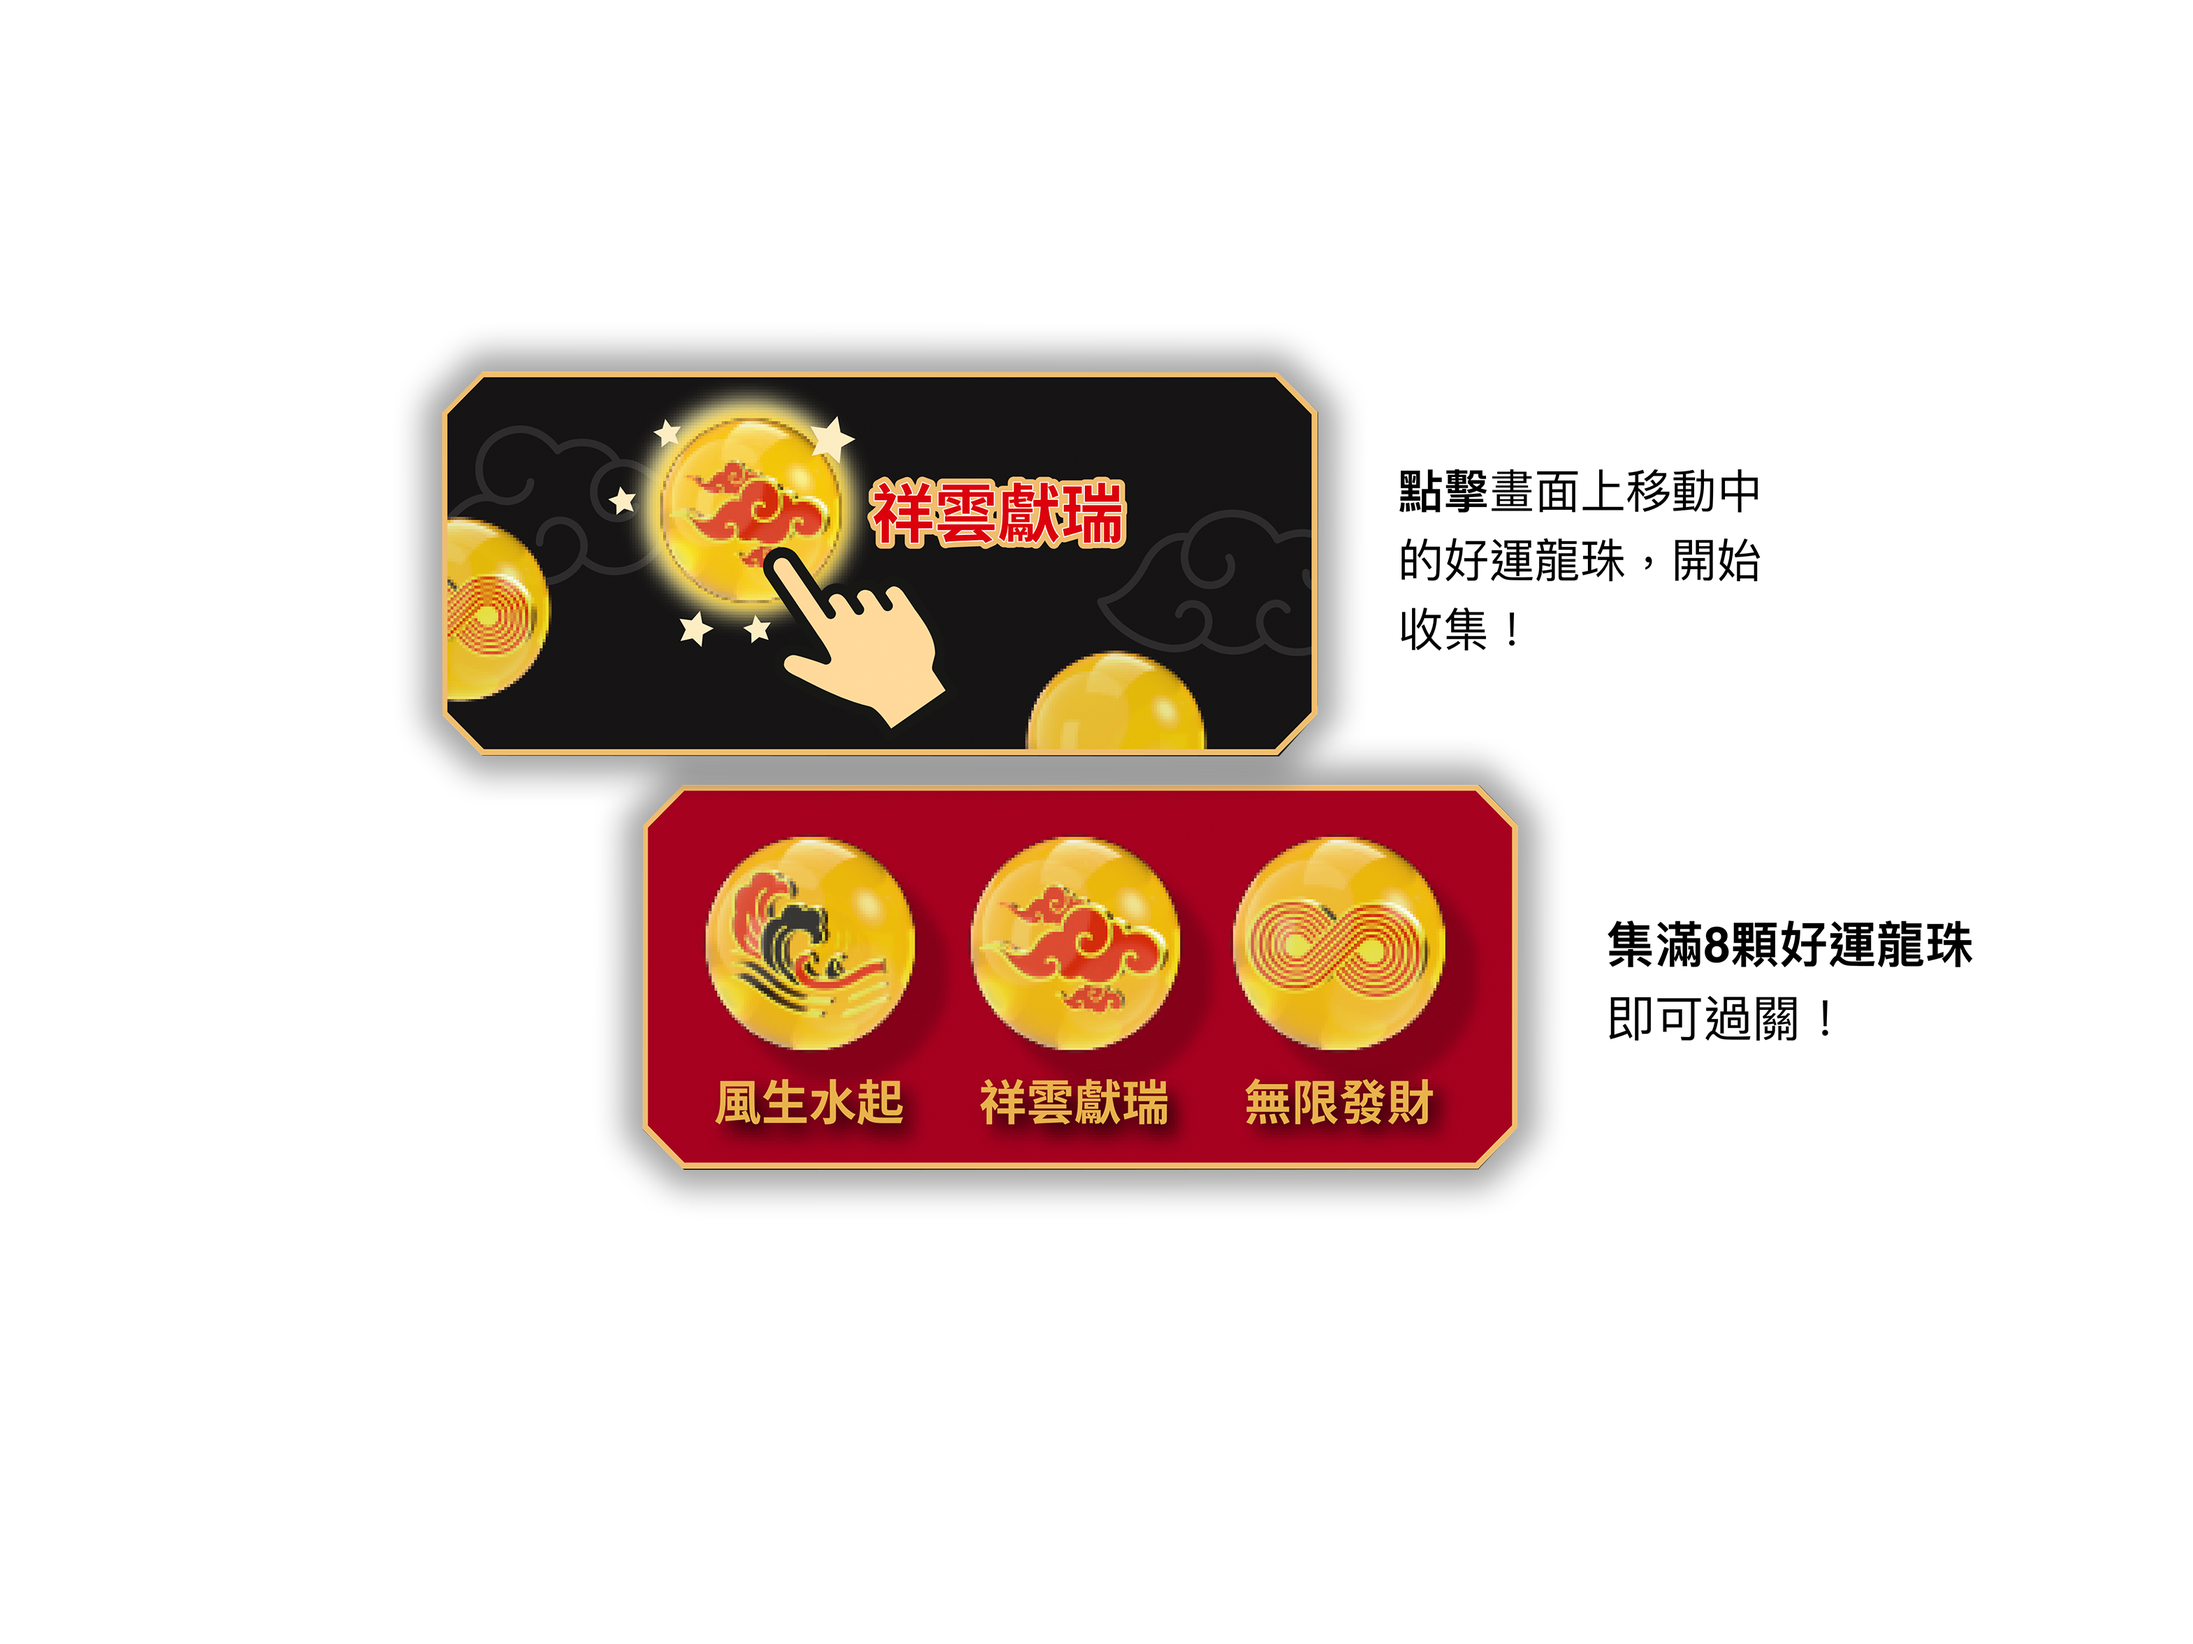
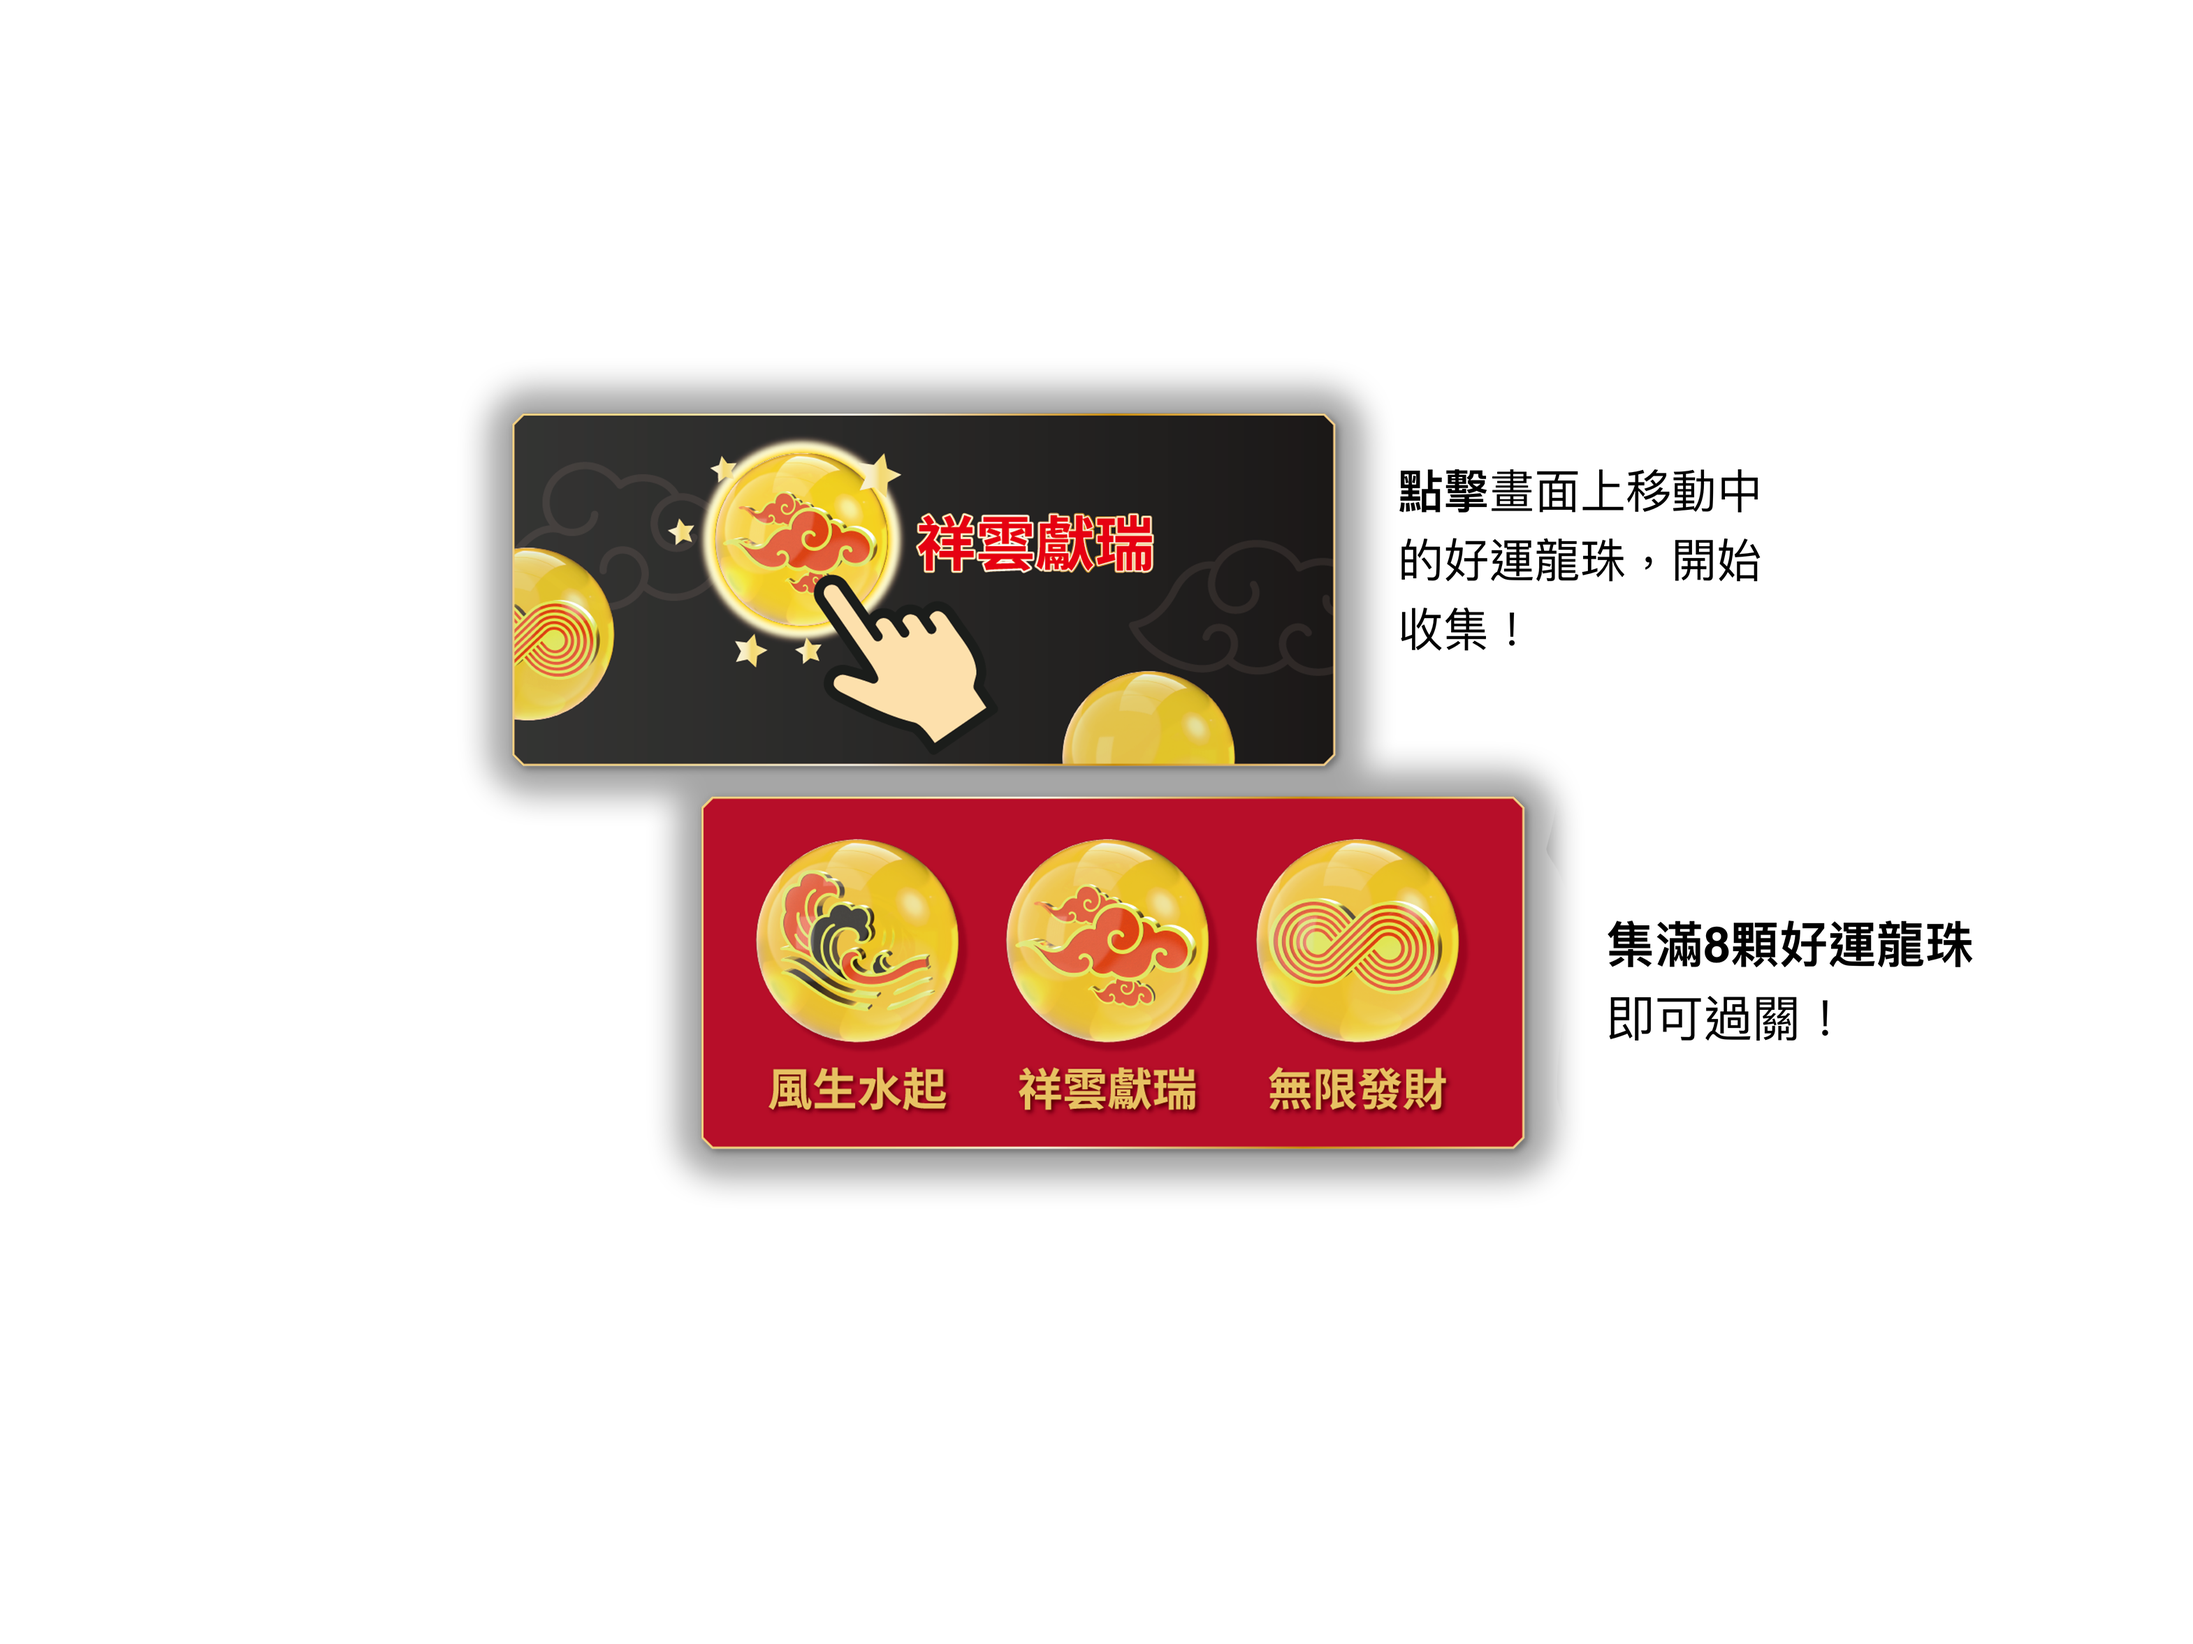
[modify] change image

Changed region(s): [[0.1873, 0.1861, 0.7181, 0.7443]]

diff --git a/docs/sw.js b/docs/sw.js
@@ -1,1 +1,1 @@
-if(!self.define){let e,i={};const s=(s,a)=>(s=new URL(s+".js",a).href,i[s]||new Promise((i=>{if("document"in self){const e=document.createElement("script");e.src=s,e.onload=i,document.head.appendChild(e)}else e=s,importScripts(s),i()})).then((()=>{let e=i[s];if(!e)throw new Error(`Module ${s} didn’t register its module`);return e})));self.define=(a,n)=>{const r=e||("document"in self?document.currentScript.src:"")||location.href;if(i[r])return;let c={};const d=e=>s(e,r),f={module:{uri:r},exports:c,require:d};i[r]=Promise.all(a.map((e=>f[e]||d(e)))).then((e=>(n(...e),c)))}}define(["./workbox-fa446783"],(function(e){"use strict";self.skipWaiting(),e.clientsClaim(),e.precacheAndRoute([{url:"assets/index-8bd6c9f1.css",revision:null},{url:"assets/index-b1850722.js",revision:null},{url:"index.html",revision:"606b4ce3635387ea9cfbb1a77ff47da7"},{url:"registerSW.js",revision:"1872c500de691dce40960bb85481de07"},{url:"audio-speaker-off.png",revision:"5d71ebc6e0774ea908d634e3b354aed9"},{url:"audio-speaker-on.png",revision:"3e88a47c7fe8e2f239dc93463cd6a61d"},{url:"bg.mp3",revision:"1939fe9c9d71e53d960f581d068bd9ed"},{url:"pwa-logo.png",revision:"1591ff58d594be7e706be72b15d9fbe6"},{url:"assets/img/12_14_finished.png",revision:"f0b06a49f71fa03c4ad1250f1f2fdf52"},{url:"assets/img/ball_light.png",revision:"aefa03217047122935e87d5466dbc32b"},{url:"assets/img/black_bg.png",revision:"ba66d50c0739e0806fa31a78a294826e"},{url:"assets/img/charm.png",revision:"259bf5ed744fa3adc292b4c1622b4720"},{url:"assets/img/charm_bg.png",revision:"8cbacc76583d1c30f68951fdd04853a2"},{url:"assets/img/charm_shadow.png",revision:"4e08170423fe7ab1e5d16abea02845c9"},{url:"assets/img/dragon_right_big.png",revision:"900469499294b1f9920352dda52cf2ae"},{url:"assets/img/dragon_right_small.png",revision:"1cf4c06a3307b38f599a046ad33dce07"},{url:"assets/img/final_bg.png",revision:"e34416eeb143a4d0387a603ab31a9778"},{url:"assets/img/final_bg_belt.png",revision:"9de76010f37ee5e7292ff1709a102026"},{url:"assets/img/final_bg_red_belt.png",revision:"280a545cb64a384decf1f57acddaa919"},{url:"assets/img/game_ball.png",revision:"e572e14f5de7450312af14774d4b681a"},{url:"assets/img/game_ball_cloud.png",revision:"dbd9ce1817c831f680a90dfbac5d2c66"},{url:"assets/img/game_ball_infinite.png",revision:"7b566ad47351caac7eb2cc092143722e"},{url:"assets/img/game_ball_shadow.png",revision:"c5bf8a2c7f9408b37e0eb26eeb09f324"},{url:"assets/img/game_ball_star.png",revision:"eadead59be570623ce3a51fd6e475c46"},{url:"assets/img/game_ball_wind.png",revision:"b70148ec2d68159e4b4188c69e438c53"},{url:"assets/img/game_bg.png",revision:"e5e22bf7d878f5b19a30225e3819f9fc"},{url:"assets/img/game_cloud.png",revision:"d78175442e27b1ff835bbc2d24da1723"},{url:"assets/img/game_count_down_1.png",revision:"9eb6eb18676de36aab5d4ef61546b932"},{url:"assets/img/game_count_down_2.png",revision:"b2c5f5fbe87d873409239bb3968c785e"},{url:"assets/img/game_count_down_3.png",revision:"707421dd93ca3fe44dfaa1df75943799"},{url:"assets/img/game_frame.png",revision:"11c7612c3cf517b10e9de22194e45b0d"},{url:"assets/img/game_header.png",revision:"80c85d9339935fe6599a2ba5ae683b14"},{url:"assets/img/game_intro_bg.png",revision:"1cc102c7f1f418e3e3d1d65a71c6ade2"},{url:"assets/img/game_intro_subtitle.png",revision:"f40ffe9709838cdd39f7dd88dbf7d592"},{url:"assets/img/game_intro_title.png",revision:"af01935a264b45cab205fb6e17f3b755"},{url:"assets/img/ground.png",revision:"0817090b7be4402f83effda2c0c3d82f"},{url:"assets/img/index_title.png",revision:"4f6a8416fce2ee65f8dd989e87a6ff01"},{url:"assets/img/intro_2_main.png",revision:"a32a72963f17ffdd9effb82b4e689b3d"},{url:"assets/img/intro_2_title.png",revision:"31fcc9f7ff893d4da61b4046b7e2fd8d"},{url:"assets/img/left_down_cloud.png",revision:"3e3fdc7caefbbe8b3e5f44b4ac92cf54"},{url:"assets/img/logo.png",revision:"807e7d178d887c3f421a12d21e5caac0"},{url:"assets/img/logo_left_top.png",revision:"0244ed2064d589a50297dc5e6f7ebd1c"},{url:"assets/img/main_product_full.png",revision:"fd05d1236200c1e62b890989f436d576"},{url:"assets/img/previous.png",revision:"7432ae6da36d2a9f92192cc30e0a72a6"},{url:"assets/img/right_belt_slogan.png",revision:"37eff0499061372e7fa2334cba7cfcf8"},{url:"assets/img/right_down_belt_without_slogan.png",revision:"c96bc043e64b566c0dafb7cfe9e2af59"},{url:"assets/img/right_top_play_button.png",revision:"abea758d97630f3e08e262ef33691cf8"},{url:"assets/img/right_top_reload_button.png",revision:"1eddb42eb58382755c2321d3d3da4464"},{url:"assets/img/side_dragon.png",revision:"0ffd0bed8ac2eb357786efe85ac937aa"},{url:"assets/img/wave_ground.png",revision:"f45bccb84c7141fd3fec5e40d3843ec9"},{url:"assets/img/woman.png",revision:"876fc9c78f46d5ff1aba1b5b1da3696e"},{url:"assets/img/yellow_bg.png",revision:"9aee5a12e6b5cdd2dacf847ac39b736f"},{url:"img/icons/android-chrome-192x192.png",revision:"5ff99f599507abe5b381606db81be9ba"},{url:"img/icons/android-chrome-512x512.png",revision:"3c80c271e5ec1296e4eca9231b168ec1"},{url:"img/icons/android-chrome-maskable-192x192.png",revision:"5ff99f599507abe5b381606db81be9ba"},{url:"img/icons/android-chrome-maskable-512x512.png",revision:"3c80c271e5ec1296e4eca9231b168ec1"},{url:"img/icons/apple-touch-icon-120x120.png",revision:"594ceabbe5154149397db13cb26a5631"},{url:"img/icons/apple-touch-icon-152x152.png",revision:"f7d36c48c6c0d28f87c87eb177a557db"},{url:"img/icons/apple-touch-icon-180x180.png",revision:"45b15b8d9cfd5ee169914d7d80ce7042"},{url:"img/icons/apple-touch-icon-60x60.png",revision:"03c2e9f1fd8e28744b5ac3731404f719"},{url:"img/icons/apple-touch-icon-76x76.png",revision:"cb6ff442367c0e152e1d5901820ef690"},{url:"img/icons/apple-touch-icon.png",revision:"45b15b8d9cfd5ee169914d7d80ce7042"},{url:"img/icons/favicon-16x16.png",revision:"49610a9d0e3026ebfaec1aa32f22b67f"},{url:"img/icons/favicon-32x32.png",revision:"2630333ce5e5cfffa37a086a9944f328"},{url:"img/icons/msapplication-icon-144x144.png",revision:"c03a2d352ba1fcf42d83115ada8fab29"},{url:"img/icons/mstile-150x150.png",revision:"6d515c92812c3f66ac86f07a7669db5b"},{url:"img/icons/safari-pinned-tab.svg",revision:"86b564b18ea6c7e170fa6cb87ca03bcf"},{url:"manifest.webmanifest",revision:"a44d6e44fe1492ab92195f4ccfee018f"}],{}),e.cleanupOutdatedCaches(),e.registerRoute(new e.NavigationRoute(e.createHandlerBoundToURL("index.html")))}));
+if(!self.define){let e,i={};const s=(s,a)=>(s=new URL(s+".js",a).href,i[s]||new Promise((i=>{if("document"in self){const e=document.createElement("script");e.src=s,e.onload=i,document.head.appendChild(e)}else e=s,importScripts(s),i()})).then((()=>{let e=i[s];if(!e)throw new Error(`Module ${s} didn’t register its module`);return e})));self.define=(a,n)=>{const r=e||("document"in self?document.currentScript.src:"")||location.href;if(i[r])return;let c={};const d=e=>s(e,r),o={module:{uri:r},exports:c,require:d};i[r]=Promise.all(a.map((e=>o[e]||d(e)))).then((e=>(n(...e),c)))}}define(["./workbox-fa446783"],(function(e){"use strict";self.skipWaiting(),e.clientsClaim(),e.precacheAndRoute([{url:"assets/index-8bd6c9f1.css",revision:null},{url:"assets/index-b1850722.js",revision:null},{url:"index.html",revision:"606b4ce3635387ea9cfbb1a77ff47da7"},{url:"registerSW.js",revision:"1872c500de691dce40960bb85481de07"},{url:"audio-speaker-off.png",revision:"5d71ebc6e0774ea908d634e3b354aed9"},{url:"audio-speaker-on.png",revision:"3e88a47c7fe8e2f239dc93463cd6a61d"},{url:"bg.mp3",revision:"1939fe9c9d71e53d960f581d068bd9ed"},{url:"pwa-logo.png",revision:"1591ff58d594be7e706be72b15d9fbe6"},{url:"assets/img/12_14_finished.png",revision:"f0b06a49f71fa03c4ad1250f1f2fdf52"},{url:"assets/img/ball_light.png",revision:"aefa03217047122935e87d5466dbc32b"},{url:"assets/img/black_bg.png",revision:"ba66d50c0739e0806fa31a78a294826e"},{url:"assets/img/charm.png",revision:"259bf5ed744fa3adc292b4c1622b4720"},{url:"assets/img/charm_bg.png",revision:"8cbacc76583d1c30f68951fdd04853a2"},{url:"assets/img/charm_shadow.png",revision:"4e08170423fe7ab1e5d16abea02845c9"},{url:"assets/img/dragon_right_big.png",revision:"900469499294b1f9920352dda52cf2ae"},{url:"assets/img/dragon_right_small.png",revision:"1cf4c06a3307b38f599a046ad33dce07"},{url:"assets/img/final_bg.png",revision:"e34416eeb143a4d0387a603ab31a9778"},{url:"assets/img/final_bg_belt.png",revision:"9de76010f37ee5e7292ff1709a102026"},{url:"assets/img/final_bg_red_belt.png",revision:"280a545cb64a384decf1f57acddaa919"},{url:"assets/img/game_ball.png",revision:"e572e14f5de7450312af14774d4b681a"},{url:"assets/img/game_ball_cloud.png",revision:"dbd9ce1817c831f680a90dfbac5d2c66"},{url:"assets/img/game_ball_infinite.png",revision:"7b566ad47351caac7eb2cc092143722e"},{url:"assets/img/game_ball_shadow.png",revision:"c5bf8a2c7f9408b37e0eb26eeb09f324"},{url:"assets/img/game_ball_star.png",revision:"eadead59be570623ce3a51fd6e475c46"},{url:"assets/img/game_ball_wind.png",revision:"b70148ec2d68159e4b4188c69e438c53"},{url:"assets/img/game_bg.png",revision:"e5e22bf7d878f5b19a30225e3819f9fc"},{url:"assets/img/game_cloud.png",revision:"d78175442e27b1ff835bbc2d24da1723"},{url:"assets/img/game_count_down_1.png",revision:"9eb6eb18676de36aab5d4ef61546b932"},{url:"assets/img/game_count_down_2.png",revision:"b2c5f5fbe87d873409239bb3968c785e"},{url:"assets/img/game_count_down_3.png",revision:"707421dd93ca3fe44dfaa1df75943799"},{url:"assets/img/game_frame.png",revision:"11c7612c3cf517b10e9de22194e45b0d"},{url:"assets/img/game_header.png",revision:"80c85d9339935fe6599a2ba5ae683b14"},{url:"assets/img/game_intro_bg.png",revision:"1cc102c7f1f418e3e3d1d65a71c6ade2"},{url:"assets/img/game_intro_subtitle.png",revision:"f40ffe9709838cdd39f7dd88dbf7d592"},{url:"assets/img/game_intro_title.png",revision:"af01935a264b45cab205fb6e17f3b755"},{url:"assets/img/ground.png",revision:"0817090b7be4402f83effda2c0c3d82f"},{url:"assets/img/index_title.png",revision:"6e66b23b63073a80d5bfdc6e5ead2598"},{url:"assets/img/intro_2_main.png",revision:"7bd11e5ee8545b126584d516b9d5e5fe"},{url:"assets/img/intro_2_title.png",revision:"31fcc9f7ff893d4da61b4046b7e2fd8d"},{url:"assets/img/left_down_cloud.png",revision:"3e3fdc7caefbbe8b3e5f44b4ac92cf54"},{url:"assets/img/logo.png",revision:"807e7d178d887c3f421a12d21e5caac0"},{url:"assets/img/logo_left_top.png",revision:"0244ed2064d589a50297dc5e6f7ebd1c"},{url:"assets/img/main_product_full.png",revision:"fd05d1236200c1e62b890989f436d576"},{url:"assets/img/previous.png",revision:"7432ae6da36d2a9f92192cc30e0a72a6"},{url:"assets/img/right_belt_slogan.png",revision:"37eff0499061372e7fa2334cba7cfcf8"},{url:"assets/img/right_down_belt_without_slogan.png",revision:"c96bc043e64b566c0dafb7cfe9e2af59"},{url:"assets/img/right_top_play_button.png",revision:"abea758d97630f3e08e262ef33691cf8"},{url:"assets/img/right_top_reload_button.png",revision:"1eddb42eb58382755c2321d3d3da4464"},{url:"assets/img/side_dragon.png",revision:"0ffd0bed8ac2eb357786efe85ac937aa"},{url:"assets/img/wave_ground.png",revision:"f45bccb84c7141fd3fec5e40d3843ec9"},{url:"assets/img/woman.png",revision:"876fc9c78f46d5ff1aba1b5b1da3696e"},{url:"assets/img/yellow_bg.png",revision:"9aee5a12e6b5cdd2dacf847ac39b736f"},{url:"img/icons/android-chrome-192x192.png",revision:"5ff99f599507abe5b381606db81be9ba"},{url:"img/icons/android-chrome-512x512.png",revision:"3c80c271e5ec1296e4eca9231b168ec1"},{url:"img/icons/android-chrome-maskable-192x192.png",revision:"5ff99f599507abe5b381606db81be9ba"},{url:"img/icons/android-chrome-maskable-512x512.png",revision:"3c80c271e5ec1296e4eca9231b168ec1"},{url:"img/icons/apple-touch-icon-120x120.png",revision:"594ceabbe5154149397db13cb26a5631"},{url:"img/icons/apple-touch-icon-152x152.png",revision:"f7d36c48c6c0d28f87c87eb177a557db"},{url:"img/icons/apple-touch-icon-180x180.png",revision:"45b15b8d9cfd5ee169914d7d80ce7042"},{url:"img/icons/apple-touch-icon-60x60.png",revision:"03c2e9f1fd8e28744b5ac3731404f719"},{url:"img/icons/apple-touch-icon-76x76.png",revision:"cb6ff442367c0e152e1d5901820ef690"},{url:"img/icons/apple-touch-icon.png",revision:"45b15b8d9cfd5ee169914d7d80ce7042"},{url:"img/icons/favicon-16x16.png",revision:"49610a9d0e3026ebfaec1aa32f22b67f"},{url:"img/icons/favicon-32x32.png",revision:"2630333ce5e5cfffa37a086a9944f328"},{url:"img/icons/msapplication-icon-144x144.png",revision:"c03a2d352ba1fcf42d83115ada8fab29"},{url:"img/icons/mstile-150x150.png",revision:"6d515c92812c3f66ac86f07a7669db5b"},{url:"img/icons/safari-pinned-tab.svg",revision:"86b564b18ea6c7e170fa6cb87ca03bcf"},{url:"manifest.webmanifest",revision:"a44d6e44fe1492ab92195f4ccfee018f"}],{}),e.cleanupOutdatedCaches(),e.registerRoute(new e.NavigationRoute(e.createHandlerBoundToURL("index.html")))}));
